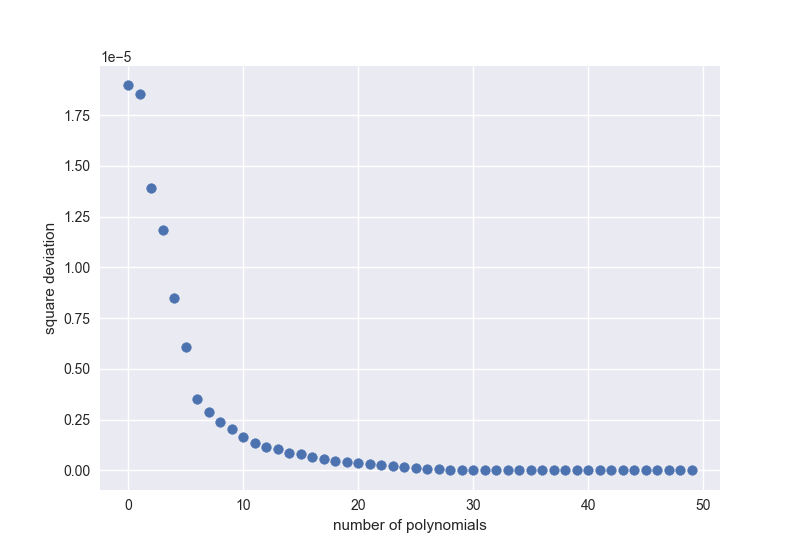
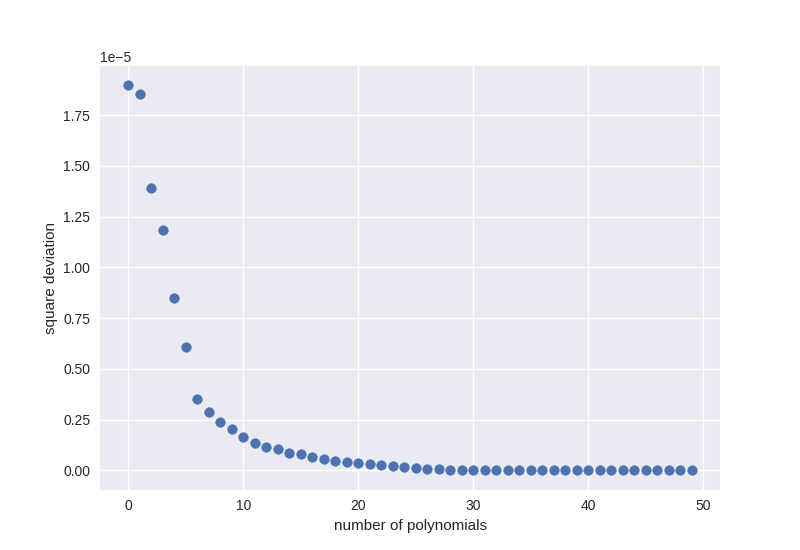
added shift for expansion, added ADORYM output

diff --git a/probe.py b/probe.py
@@ -2,41 +2,52 @@
 
 import numpy as np # 1.21.1
 import seaborn as sns # 41.4.0
-import matplotlib.pyplot as plt
+import matplotlib.pyplot as plt # 3.4.2
 from matplotlib import cm # 3.4.2
 from zernike import CZern # 0.0.31
 
-#callable attributes: sample (original), ft_sample (fourier transformed),
-#	probe (cutout of ft_sample), max_index (boardes of probe),
-#	nonzero (ft_sample low values set to zero)
+#callable attributes: sample (input, should be square), ift_sample (after ifft2), 
+#	ift_sample_crop (cropped to centre for fit), N (max order)
+#	nonzero (low values set to zero), nonzero_crop (cropped to centre for fit)
 #	cart (zernike czern object), coeffs (ordered list of zernike coeffs)
+#	fit (zernike expansion padded), fit_crop (zernike expansion),
+#	ft_fit (padded expansion back-transformed), SHIFT (for shift/unshift method),
+#	probe (for adorym: contains probe_mag and probe_phase)
 #methods: init (zernike expansion), plot (probe vs expansion),
 #	coeff_N (returns coeffs of order N), zernike (returns (n,m) polynomial
 # 	weighted with fitted coefficient), visual_coeff (visualises coeffs)
+#	shift/unshift (shift/unshift before expansion)
 class Probe:
 	#initialise probe object by calculating its zernike coefficients
-	def __init__(self, sample, N="auto", tolerance="auto"):
-		self.sample=np.fft.fftshift(sample)
+	def __init__(self, sample, N="auto", tolerance="auto", shift=2):
+		#shift sample by 2 pixels off centre
+		self.sample=sample
+		self.SHIFT=shift
+
+		#shift sample
+		sample=np.fft.fftshift(sample)
+		sample=self.shift(sample)
 		LEN=sample.shape[0]
 
 		#transform sample to dual space
-		self.ift_sample=np.fft.ifftshift(np.fft.ifft2(self.sample))
+		ift_sample=np.fft.ifftshift(np.fft.ifft2(sample))
+		self.ift_sample=ift_sample
 
 		#auto tolerance
 		if tolerance=="auto":
-			tolerance=np.amax(self.ift_sample)*.2
+			tolerance=np.amax(ift_sample)*.2
 
 		#set values close to zero (within tolerance) to 0
-		sample_nonzero=self.ift_sample.copy()
+		sample_nonzero=ift_sample.copy()
 		for ix, iy in np.ndindex(sample_nonzero.shape):
 			if np.absolute(sample_nonzero[ix,iy])<tolerance:
 				sample_nonzero[ix,iy]=0
 		self.nonzero=sample_nonzero
-
+		
 		#find bandwidth limit k_max
 		#get array of indices with significantly non-zero value
 		k=[]
-		nonzero=np.nonzero(self.nonzero)
+		nonzero=np.nonzero(sample_nonzero)
 		for i in range(len(nonzero[0])):
 			k.append(nonzero[0][i])
 			k.append(nonzero[1][i])
@@ -44,23 +55,26 @@ class Probe:
 
 		#maximum non-zero index, centered
 		max_index=np.amax(np.abs(k-LEN//2))
-		self.max_index=max_index
 
 		#submatrix 
 		minIdx=-max_index+LEN//2-LEN%2
 		maxIdx=max_index+LEN//2+1+LEN%2
-		probe=self.ift_sample[minIdx:maxIdx, minIdx:maxIdx]
-		self.probe=probe
+		self.minIdx=minIdx
+		self.maxIdx=maxIdx
+		self.ift_sample_crop=ift_sample[minIdx:maxIdx, minIdx:maxIdx]
+		self.nonzero_crop=sample_nonzero[minIdx:maxIdx, minIdx:maxIdx]
 		
 		#expand sample using Zernike polynomials with radius k_max
 		#up to radial order N
 		if N=="auto":
-			N=int(probe.shape[0]//2)
+			N=int(self.ift_sample_crop.shape[0]//2)
+		elif N=="default" or not N:
+			N=8
 		self.N=N
 
 		#create CZern object for zernike polynomials
 		cart=CZern(N)
-		L,K=self.probe.shape
+		L,K=self.ift_sample_crop.shape
 		ddx=np.linspace(-1,1,K)
 		ddy=np.linspace(-1,1,L)
 		xv,yv=np.meshgrid(ddx,ddy)
@@ -68,34 +82,73 @@ class Probe:
 		self.cart=cart
 
 		#calculate coeffs using lstsq method
-		self.coeffs=self.cart.fit_cart_grid(probe)[0]
+		self.coeffs=self.cart.fit_cart_grid(self.ift_sample_crop)[0]
 		#other returns from fit_cart_grid: residuals, rank,
 		# singular values (see numpy lstsq)
 
 		#save fitted zernike polynomial
-		self.fit=self.cart.eval_grid(self.coeffs, matrix=True)
+		self.fit_crop=self.cart.eval_grid(self.coeffs, matrix=True)
+		self.fit=self.pad(self.fit_crop)
+		ft_fit=np.fft.fft2(self.fit)
 
-	#plot probe vs fit
+		#undo shift from beginning
+		ft_fit=self.unshift(ft_fit)
+		self.ft_fit=np.fft.fftshift(ft_fit)
+
+		#generate probe object for ADORYM
+		shape=(len(self.coeffs),self.sample.shape[0],self.sample.shape[1])
+		probe_mag=np.zeros(shape)
+		probe_phase=np.zeros(shape)
+		for mode, coeff in enumerate(self.coeffs):
+			probe_mag[mode]=self.pad(np.abs(self.zernike(mode)))
+			probe_phase[mode]=self.pad(np.angle(self.zernike(mode)))
+		self.probe=[probe_mag, probe_phase]
+
+	##### METHODS #####
+	#shift 2d array before ifft2
+	def shift(self, array):
+		return np.roll(array, (self.SHIFT,self.SHIFT))
+
+	#shift array back before fft2
+	def unshift(self, array):
+		return np.roll(array, (-self.SHIFT,-self.SHIFT))
+
+	#pad cropped arrays with 0 to input shape
+	def pad(self, cropped):
+		pad=np.zeros(self.sample.shape, dtype=cropped.dtype)
+		maxIdx=self.maxIdx
+		minIdx=self.minIdx
+		pad[minIdx:maxIdx, minIdx:maxIdx]=np.nan_to_num(cropped, nan=0)
+		return pad
+
+	#plot sample_crop vs fit
 	def plot(self, save=False):
-		#replace nan in fit with 0
-		fit=np.nan_to_num(self.fit, nan=0)
+		
+		fit=self.fit_crop
+		sample=self.ift_sample_crop-0*fit
+		diff=sample-fit
+
+		#replace nan with 0
+		fit=np.nan_to_num(fit, nan=0)
+		sample=np.nan_to_num(sample, nan=0)
+		diff=np.nan_to_num(diff, nan=0)
 
 		fig, ((ax1,ax2,ax3),(ax4,ax5,ax6),(ax7,ax8,ax9))=plt.subplots(3,3,
 			sharey=True,figsize=(15,15))		
 
 		#define norms for all subplots
-		ALL=np.abs([np.abs(self.probe),np.abs(fit),self.probe.real,
-			fit.real,self.probe.imag,fit.imag])
+		ALL=np.abs([np.abs(sample),np.abs(fit),sample.real,
+			fit.real,sample.imag,fit.imag])
 		norm=np.amax(ALL)
 
 		#plot original probe
-		ax1=sns.heatmap(np.abs(self.probe),ax=ax1,cmap=cm.seismic,vmin=-norm, vmax=norm)
+		ax1=sns.heatmap(np.abs(sample),ax=ax1,cmap=cm.seismic,vmin=-norm, vmax=norm)
 		ax1.set_title("original probe (amplitude)")
 
-		ax4=sns.heatmap(self.probe.real,ax=ax4,cmap=cm.seismic,vmin=-norm, vmax=norm)
+		ax4=sns.heatmap(sample.real,ax=ax4,cmap=cm.seismic,vmin=-norm, vmax=norm)
 		ax4.set_title("original probe (real)")
 
-		ax7=sns.heatmap(self.probe.imag,ax=ax7,cmap=cm.seismic,vmin=-norm, vmax=norm)
+		ax7=sns.heatmap(sample.imag,ax=ax7,cmap=cm.seismic,vmin=-norm, vmax=norm)
 		ax7.set_title("original probe (imag)")
 
 		#plot fit
@@ -109,7 +162,7 @@ class Probe:
 		ax8.set_title("zernike expansion (imag)")
 
 		#plot difference between original and fit
-		diff=self.probe-fit
+		diff=sample-fit
 		ax3=sns.heatmap(np.abs(diff),ax=ax3,cmap=cm.seismic,vmin=-norm, vmax=norm)
 		ax3.set_title("original-zernike (amplitude)")
 
@@ -134,20 +187,26 @@ class Probe:
 		return self.coeffs[begin:end]
 
 	#needed for explicit calculation
-	#returns zernike polynomial n,m in shape of probe
+	#returns zernike polynomial n,m in shape of sample_crop
+	#if only n is provided, total coefficient number is assumed
 	# n>=0, 0<=m<=n
-	def zernike(self,n,m):
-		#make sure valid n and m are provided
-		if n>self.N:
-			n=self.N
-			print(f"n can't be larger than N, setting n={self.N}")
-		if m>n:
-			m=n
-			print(f"m can't be larger than n, setting m={n}")
-
+	def zernike(self,n,m=None):
+		#make sure valid n and m are provided		
+		if m is None:
+			#if only n is provided
+			idx=int(n)
+		else:
+			if n>self.N:
+				n=self.N
+				print(f"n can't be larger than N, setting n={self.N}")
+			if m>n:
+				m=n
+				print(f"m can't be larger than n, setting m={n}")
+			idx=int(n*(n+1)/2)+m
+			
 		#create coeff array with the corresponding coeff from fit
 		coeffs=np.zeros(len(self.coeffs),dtype="complex")
-		coeffs[int(n*(n+1)/2)+m]=self.coeffs[int(n*(n+1)/2)+m]
+		coeffs[idx]=self.coeffs[idx]
 
 		#make polynomial matrix
 		poly=self.cart.eval_grid(coeffs, matrix=True)
@@ -155,19 +214,22 @@ class Probe:
 		return np.nan_to_num(poly, nan=0)
 
 	def visual_coeff(self):
-		plt.style.use("seaborn")
-		fig, (ax1,ax2,ax3)=plt.subplots(3,1, sharey=True,sharex=True)
-		ax1.scatter(range(len(self.coeffs)),self.coeffs.real)
-		ax2.scatter(range(len(self.coeffs)),self.coeffs.imag)
-		ax3.scatter(range(len(self.coeffs)),np.abs(self.coeffs))
+		with plt.style.context('seaborn'):
+			fig, (ax1,ax2,ax3)=plt.subplots(3,1, sharey=True,sharex=True)
+			ax1.scatter(range(len(self.coeffs)),self.coeffs.real)
+			ax2.scatter(range(len(self.coeffs)),self.coeffs.imag)
+			ax3.scatter(range(len(self.coeffs)),np.abs(self.coeffs))
 
-		ax1.set_ylabel("real part")		
-		ax2.set_ylabel("imaginary part")
-		ax3.set_xlabel("# of coefficient")
-		ax3.set_ylabel("absolute")
+			ax1.set_ylabel("real part")		
+			ax2.set_ylabel("imaginary part")
+			ax3.set_xlabel("# of coefficient")
+			ax3.set_ylabel("absolute")
 
-		fig.tight_layout()
-		plt.savefig("coefficients.png")
+			fig.tight_layout()
+			plt.savefig("coefficients.png")
+		plt.close()
+
+####### OTHER #######
 
 #test accuracy of fit for different orders
 def test_fit(sample,end,tolerance="auto"):
@@ -188,14 +250,16 @@ def test_fit(sample,end,tolerance="auto"):
 		all_coeff.append(p.coeffs)
 
 	#plot square deviation
-	plt.style.use("seaborn")
-	fig,ax=plt.subplots(1,1)
-	ax.scatter(range(end),sdiff)
-	ax.set_xlabel("number of polynomials")
-	ax.set_ylabel("square deviation")
-	plt.savefig("test_accuracy.png")
+	with plt.style.context('seaborn'):
+		fig,ax=plt.subplots(1,1)
+		ax.scatter(range(end),sdiff)
+		ax.set_xlabel("number of polynomials")
+		ax.set_ylabel("square deviation")
+		plt.savefig("test_accuracy.png")
 	plt.close()
 
+
+####### RUN #######
 if __name__=="__main__":
 
 	import pickle as pkl
@@ -205,10 +269,10 @@ if __name__=="__main__":
 	probe_complex=sample["probe_re"]+1j*sample["probe_im"]
 	
 	#fit and plot expansion for sample
-	#probe=Probe(probe_complex)
+	probe=Probe(probe_complex)
 	#probe.visual_coeff()
-	#probe.plot("save")
-
+	probe.plot("save")
+	
 	#test accuracy for different numbers of polynomials
 	# for sample
-	test_fit(probe_complex,50)
+	#test_fit(probe_complex,50)
